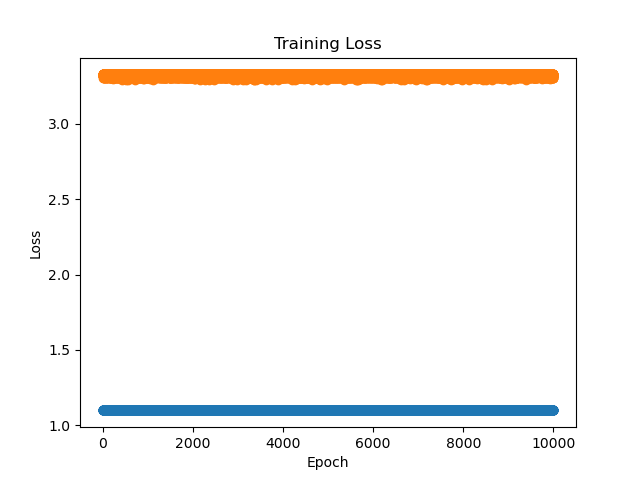
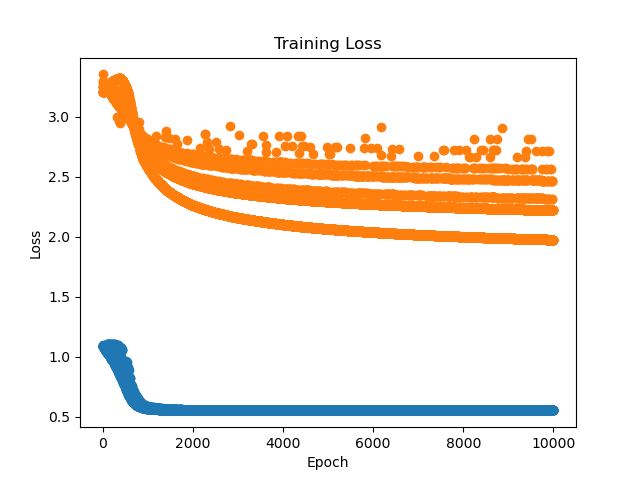
loss maybe please

diff --git a/cell.py b/cell.py
@@ -226,8 +226,8 @@ test_data = []
 for i in range(len(x_test)):
     test_data.append([x_test[i], y_test[i]])
 
-train_loader = data_utils.DataLoader(train_data, batch_size=500, shuffle=False, sampler=train_sampler)
-test_loader = data_utils.DataLoader(test_data, batch_size=500, shuffle=False, sampler=test_sampler)
+train_loader = data_utils.DataLoader(train_data, batch_size=20, shuffle=False, sampler=train_sampler)
+test_loader = data_utils.DataLoader(test_data, batch_size=20, shuffle=False, sampler=test_sampler)
 
 # start of the neural network
 
@@ -248,10 +248,6 @@ model = torch.nn.Sequential(
     torch.nn.Softmax(dim=1) 
 )
 
-learning_rate = 1e-2
-loss_fn = torch.nn.CrossEntropyLoss() 
-optimizer = torch.optim.SGD(model.parameters(), lr=learning_rate, momentum=0.9) # .626
-epoch = 10000
 
 train_losses = []
 eval_losses = []
@@ -277,6 +273,11 @@ models = Network()
 if torch.cuda.is_available():
     models = models.cuda()
 
+# hyperparams
+learning_rate = 1e-3
+loss_fn = torch.nn.CrossEntropyLoss() 
+optimizer = torch.optim.SGD(models.parameters(), lr=learning_rate, momentum=.9)
+epoch = 10000
 
 for i in range(epoch):
     # train
@@ -291,7 +292,7 @@ for i in range(epoch):
         loss.backward()
         optimizer.step()
         train_losses.append(loss.item())
-        # print('train loss',loss.item())
+        print('train loss',loss.item())
     # test
     models.eval()
     for idx, batch in enumerate(test_loader):
